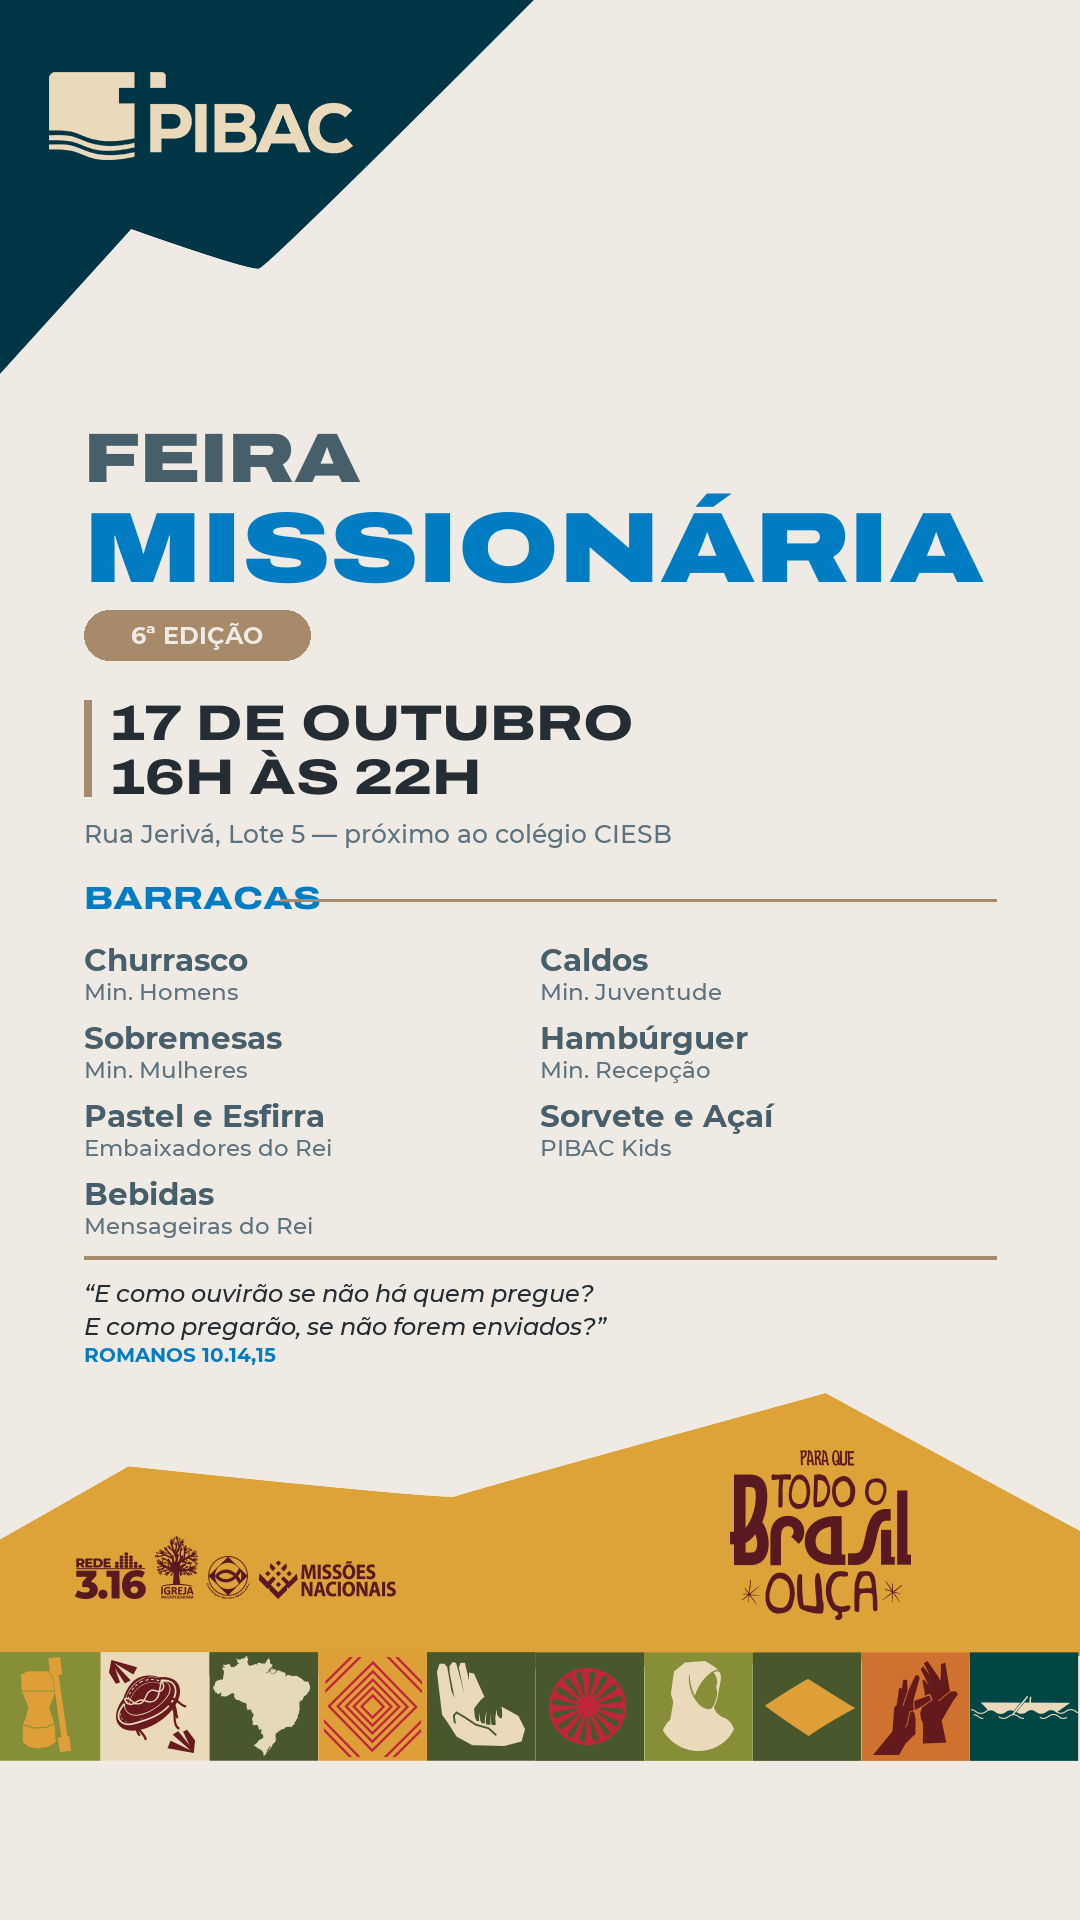
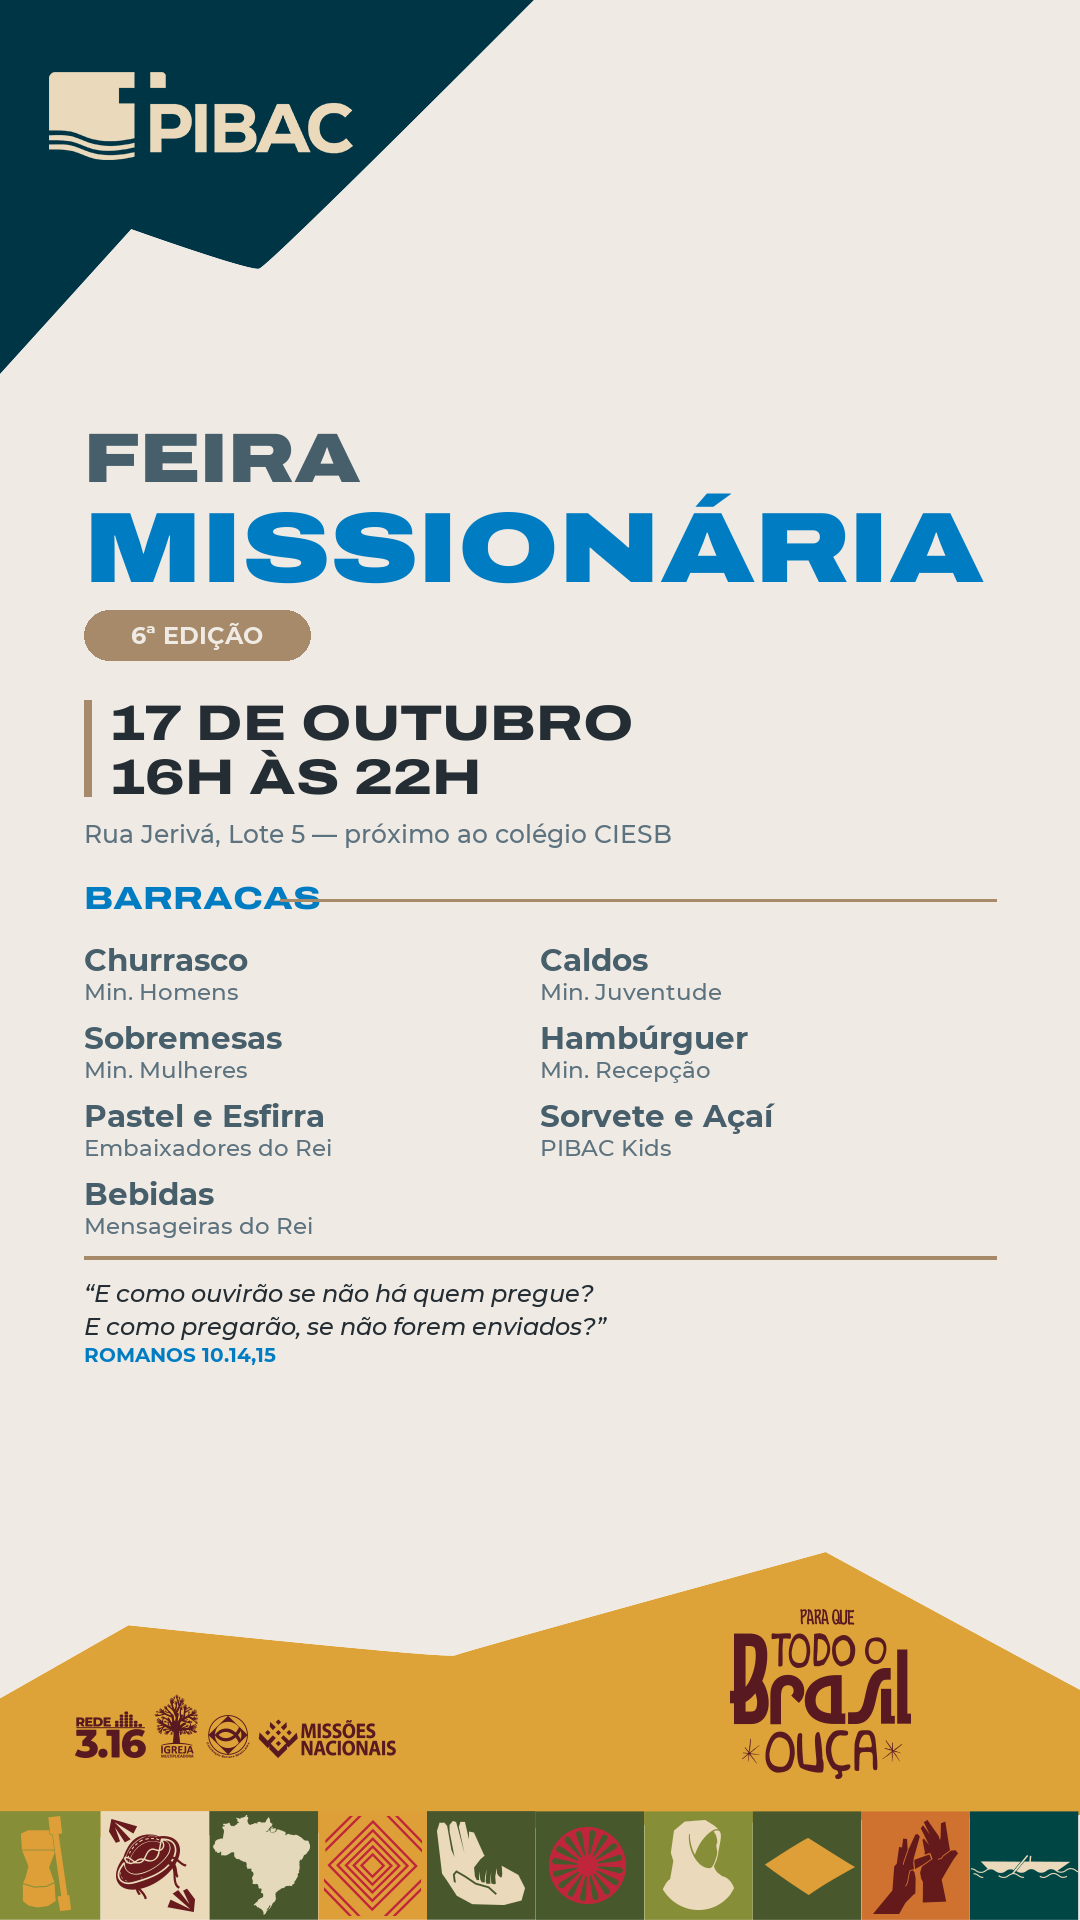
cola o rodape da campanha rente ao pe do story
O molde tem o rodape em 1393-1761, o que deixava uma faixa de fundo de 159px
embaixo dele. Agora o bloco e colado em H menos a altura dele, encostando na
borda inferior. O miolo ganha espaco de sobra: termina em 1366 e o rodape so
comeca em 1552.

Changed region(s): [[0.0, 0.7188, 1.0, 1.0]]

diff --git a/04_PRODUCTION/missoes/fontes/gerar-story-feira-missionaria-v1.py b/04_PRODUCTION/missoes/fontes/gerar-story-feira-missionaria-v1.py
@@ -34,7 +34,13 @@ art = Image.new("RGB", (W, H), AREIA)
 d = ImageDraw.Draw(art)
 
 molde = Image.open(f"{REPO}/04_PRODUCTION/missoes/fontes/molde-video-missoes-v1.psd").convert("RGBA")
-art.paste(molde, (0, 0), molde)            # topo e rodape do molde aprovado
+# o molde tem dois blocos: topo em 0-374 e rodape em 1393-1761. O rodape e
+# colado rente ao pe da peca, para nao sobrar faixa de fundo embaixo dele.
+topo = molde.crop((0, 0, W, 374))
+rodape = molde.crop((0, 1393, W, 1761))
+art.paste(topo, (0, 0), topo)
+RODAPE_Y = H - rodape.height
+art.paste(rodape, (0, RODAPE_Y), rodape)
 
 M = 84                                      # margem lateral
 def txt(x, y, s, fonte, fill, anchor="la", espaco=None):
@@ -82,4 +88,4 @@ txt(M, y, "ROMANOS 10.14,15", mont(20, "Bold"), MARCA, espaco=0)
 y += 24
 
 art.save(f"{SP}/arte/story-feira-missionaria-v1.png")
-print("gerado:", art.size, "| miolo termina em y =", y, "| rodape comeca em 1393 ->", "OK" if y < 1393 else "INVADE")
+print("gerado:", art.size, "| miolo termina em y =", y, "| rodape comeca em", RODAPE_Y, "->", "OK" if y < RODAPE_Y else "INVADE")
